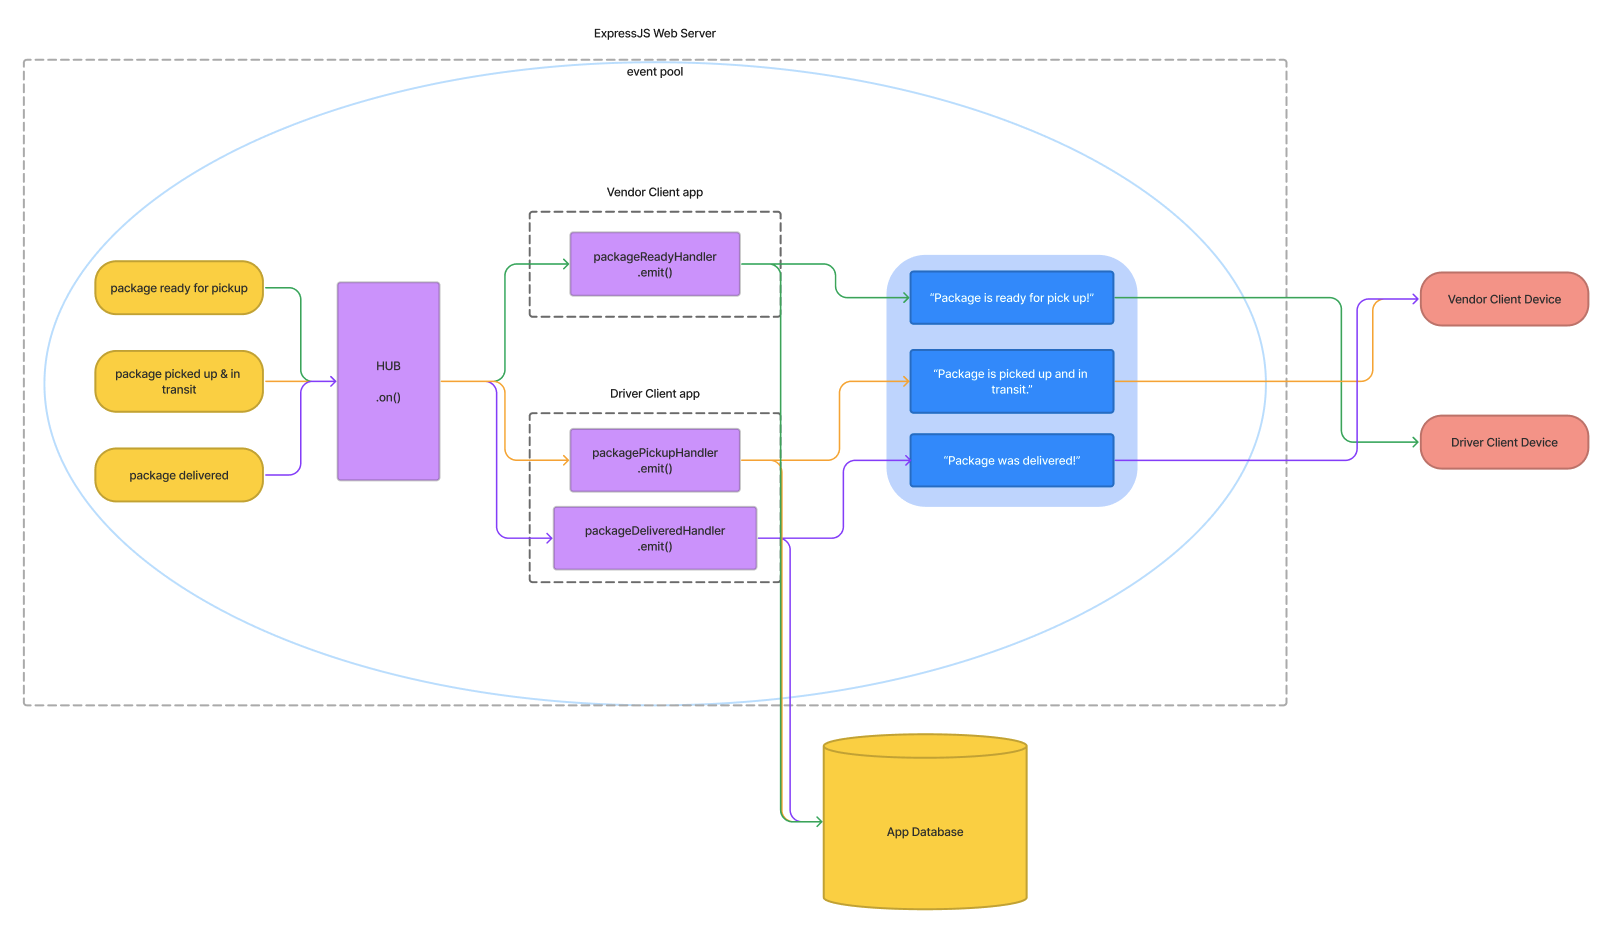
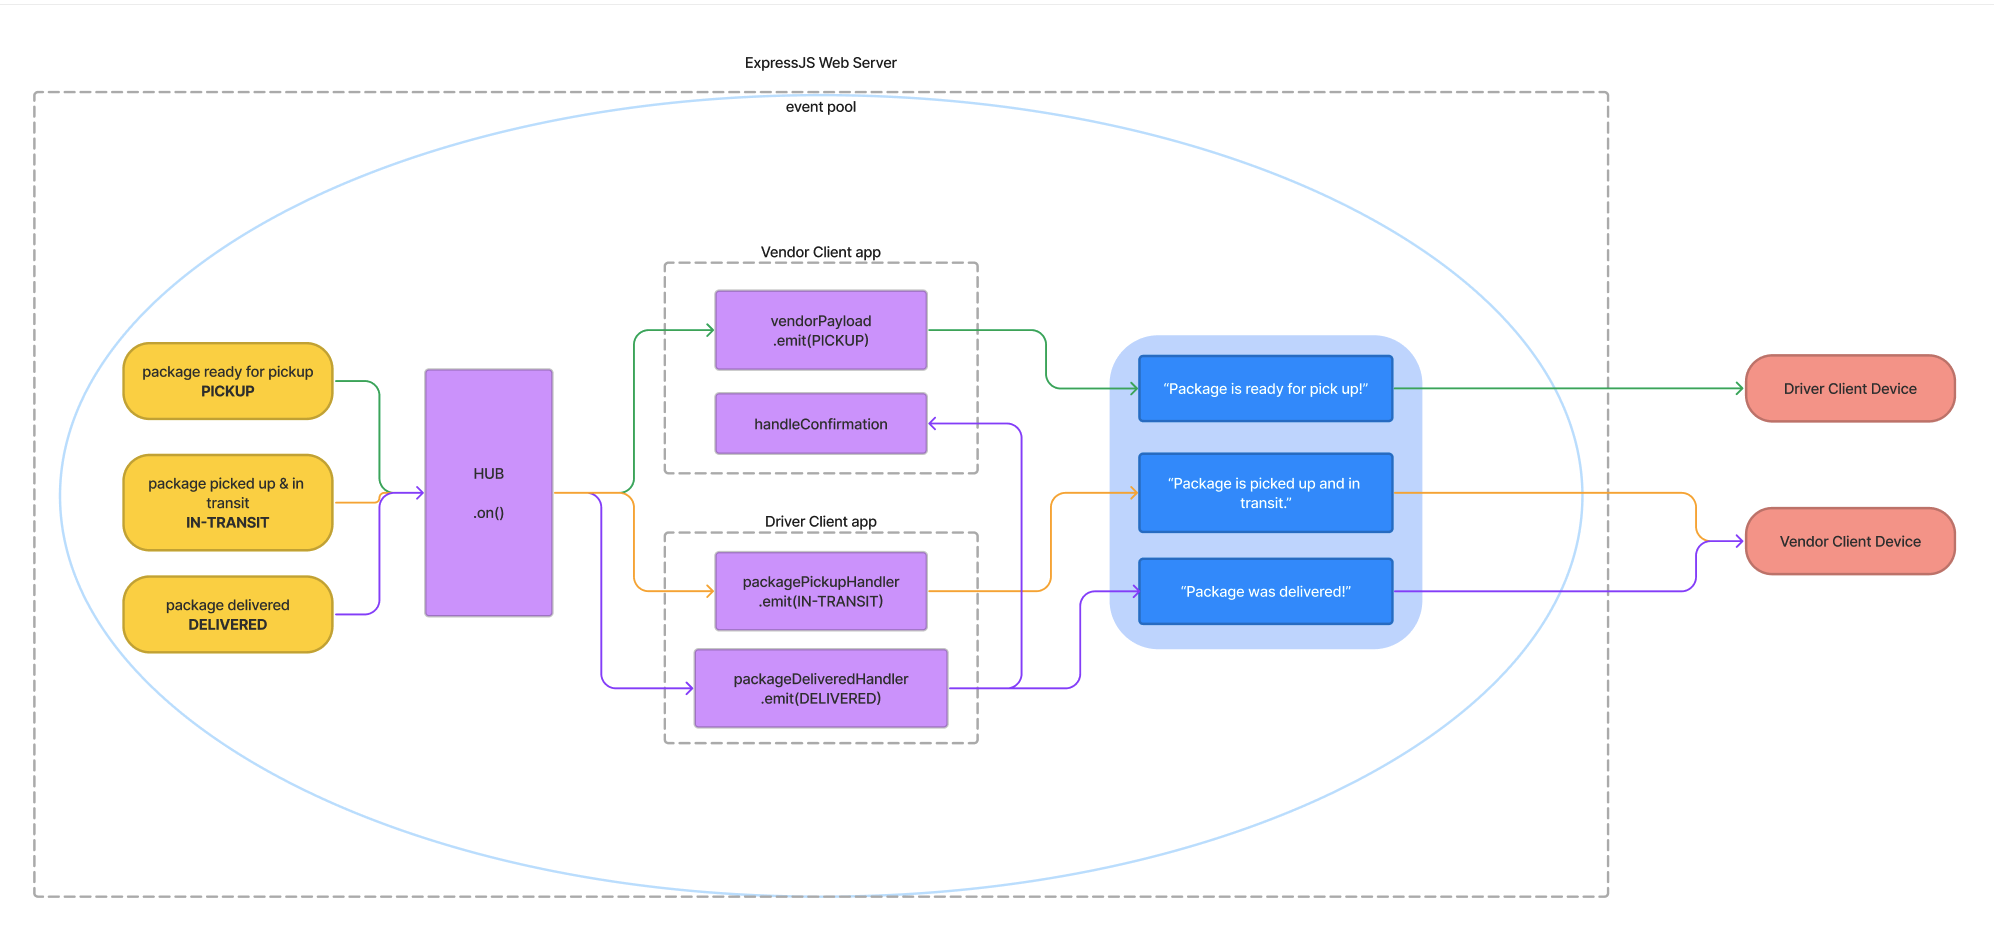
fixed tests and handlers, validated functionality, updated UML and readme

diff --git a/driver/driver-handler.test.js b/driver/driver-handler.test.js
@@ -14,17 +14,17 @@ console.log = jest.fn();
 
 describe ('Driver Handler', () => {
   test('log pickup message and emit in-transit payload', () => {
-    const payload = {order_id: 1};
+    const payload = {orderId: 1};
     handlePickup(payload);
-    expect(console.log).toHaveBeenCalledWith(`DRIVER: picked up ${payload.order_id}`);
-    expect(eventEmitter.emit).toHaveBeenCalledWith('in-transit', payload);
+    expect(console.log).toHaveBeenCalledWith(`DRIVER: picked up ${payload.orderId}`);
+    expect(eventEmitter.emit).toHaveBeenCalledWith('IN-TRANSIT', payload);
   });
 
   test('log confirmation message and emit delivered payload', () => {
     const payload = {order_id: 1};
     handleDelivered(payload);
-    expect(console.log).toHaveBeenCalledWith(`DRIVER: delivered ${payload.order_id}`);
-    expect(eventEmitter.emit).toHaveBeenCalledWith('delivered', payload);
+    expect(console.log).toHaveBeenCalledWith(`DRIVER: delivered ${payload.orderId}`);
+    expect(eventEmitter.emit).toHaveBeenCalledWith('DELIVERED', payload);
   });
 
 });

diff --git a/vendor/vendor-handler.test.js b/vendor/vendor-handler.test.js
@@ -1,14 +1,16 @@
 'use strict';
 
-const eventEmitter = require('../eventPool');
-const { vendorPayload, handleConfirmation } = require('./handler');
-
 jest.mock('../eventPool', () => {
   return {
     on: jest.fn(),
     emit: jest.fn(),
   };
 });
+
+const eventEmitter = require('../eventPool');
+const { vendorPayload, handleConfirmation } = require('./handler');
+
+
 
 console.log = jest.fn();
 
@@ -21,9 +23,14 @@ describe ('Vendor Handler', () => {
   });
 
   test('log delivered message and emit vendor thank you payload', () => {
-    console.log = jest.fn();
+    const payload = {
+      "store": 'testStore',
+      "orderId": 'testOrderId',
+      "customer": 'testCustomer',
+      "address": 'testAddress',
+    }
     handleConfirmation(payload);
-    expect(console.log).toHaveBeenCalledWith(); // TODO: update with anything?
+    expect(console.log).toHaveBeenCalledWith(`Thank you for your order ${payload.customer}`); 
   });
 
 });

diff --git a/driver/handler.js b/driver/handler.js
@@ -10,7 +10,7 @@ function handlePickup(payload) {
 
 function handleDelivered(payload) {
   console.log(`DRIVER: delivered ${payload.orderId}`);
-  eventEmitter.emit('delivered', payload);
+  eventEmitter.emit('DELIVERED', payload);
 }
 
 module.exports = { handlePickup, handleDelivered };

diff --git a/README.md b/README.md
@@ -35,10 +35,10 @@ Begin the build of an application for a product called CAPS - The Code Academy P
 #### How to initialize this application
 1. Clone this repo into your local environment
 2. `npm init -y`
-3. `npm i express cors dotenv jest supertest eslint pg sequelize sequelize-cli sqlite3`
+3. `npm i jest chance`
 4. Copy Code Fellows config files `cp -r ../seattle-code-javascript-401d53/configs/ .`
 
-#### `.env` requirements (where applicable)
+#### `.env` requirements
 
 - `PORT` - 3001  (see `.env.sample`)
 
@@ -57,15 +57,19 @@ CAPS Phase 1: Event Driven Applications
 - As a developer, I want to use industry standards for managing the state of each package.
 - As a developer, I want to create an event driven system so that I can write code that happens in response to events, in real time.
 
-#### Routes
-
-<!-- TODO: UPDATE  -->
-
 #### Tests
 
 To run tests, use the command `npm test` in your terminal
 
-<!-- TODO: UPDATE  -->
+ PASS  vendor/vendor-handler.test.js
+  Vendor Handler
+    ✓ emit pickup message and vendor order payload (2 ms)
+    ✓ log delivered message and emit vendor thank you payload (1 ms)
+
+ PASS  driver/driver-handler.test.js
+  Driver Handler
+    ✓ log pickup message and emit in-transit payload (1 ms)
+    ✓ log confirmation message and emit delivered payload
 
 #### UML
 ![UML image](UML_lab11.png)
